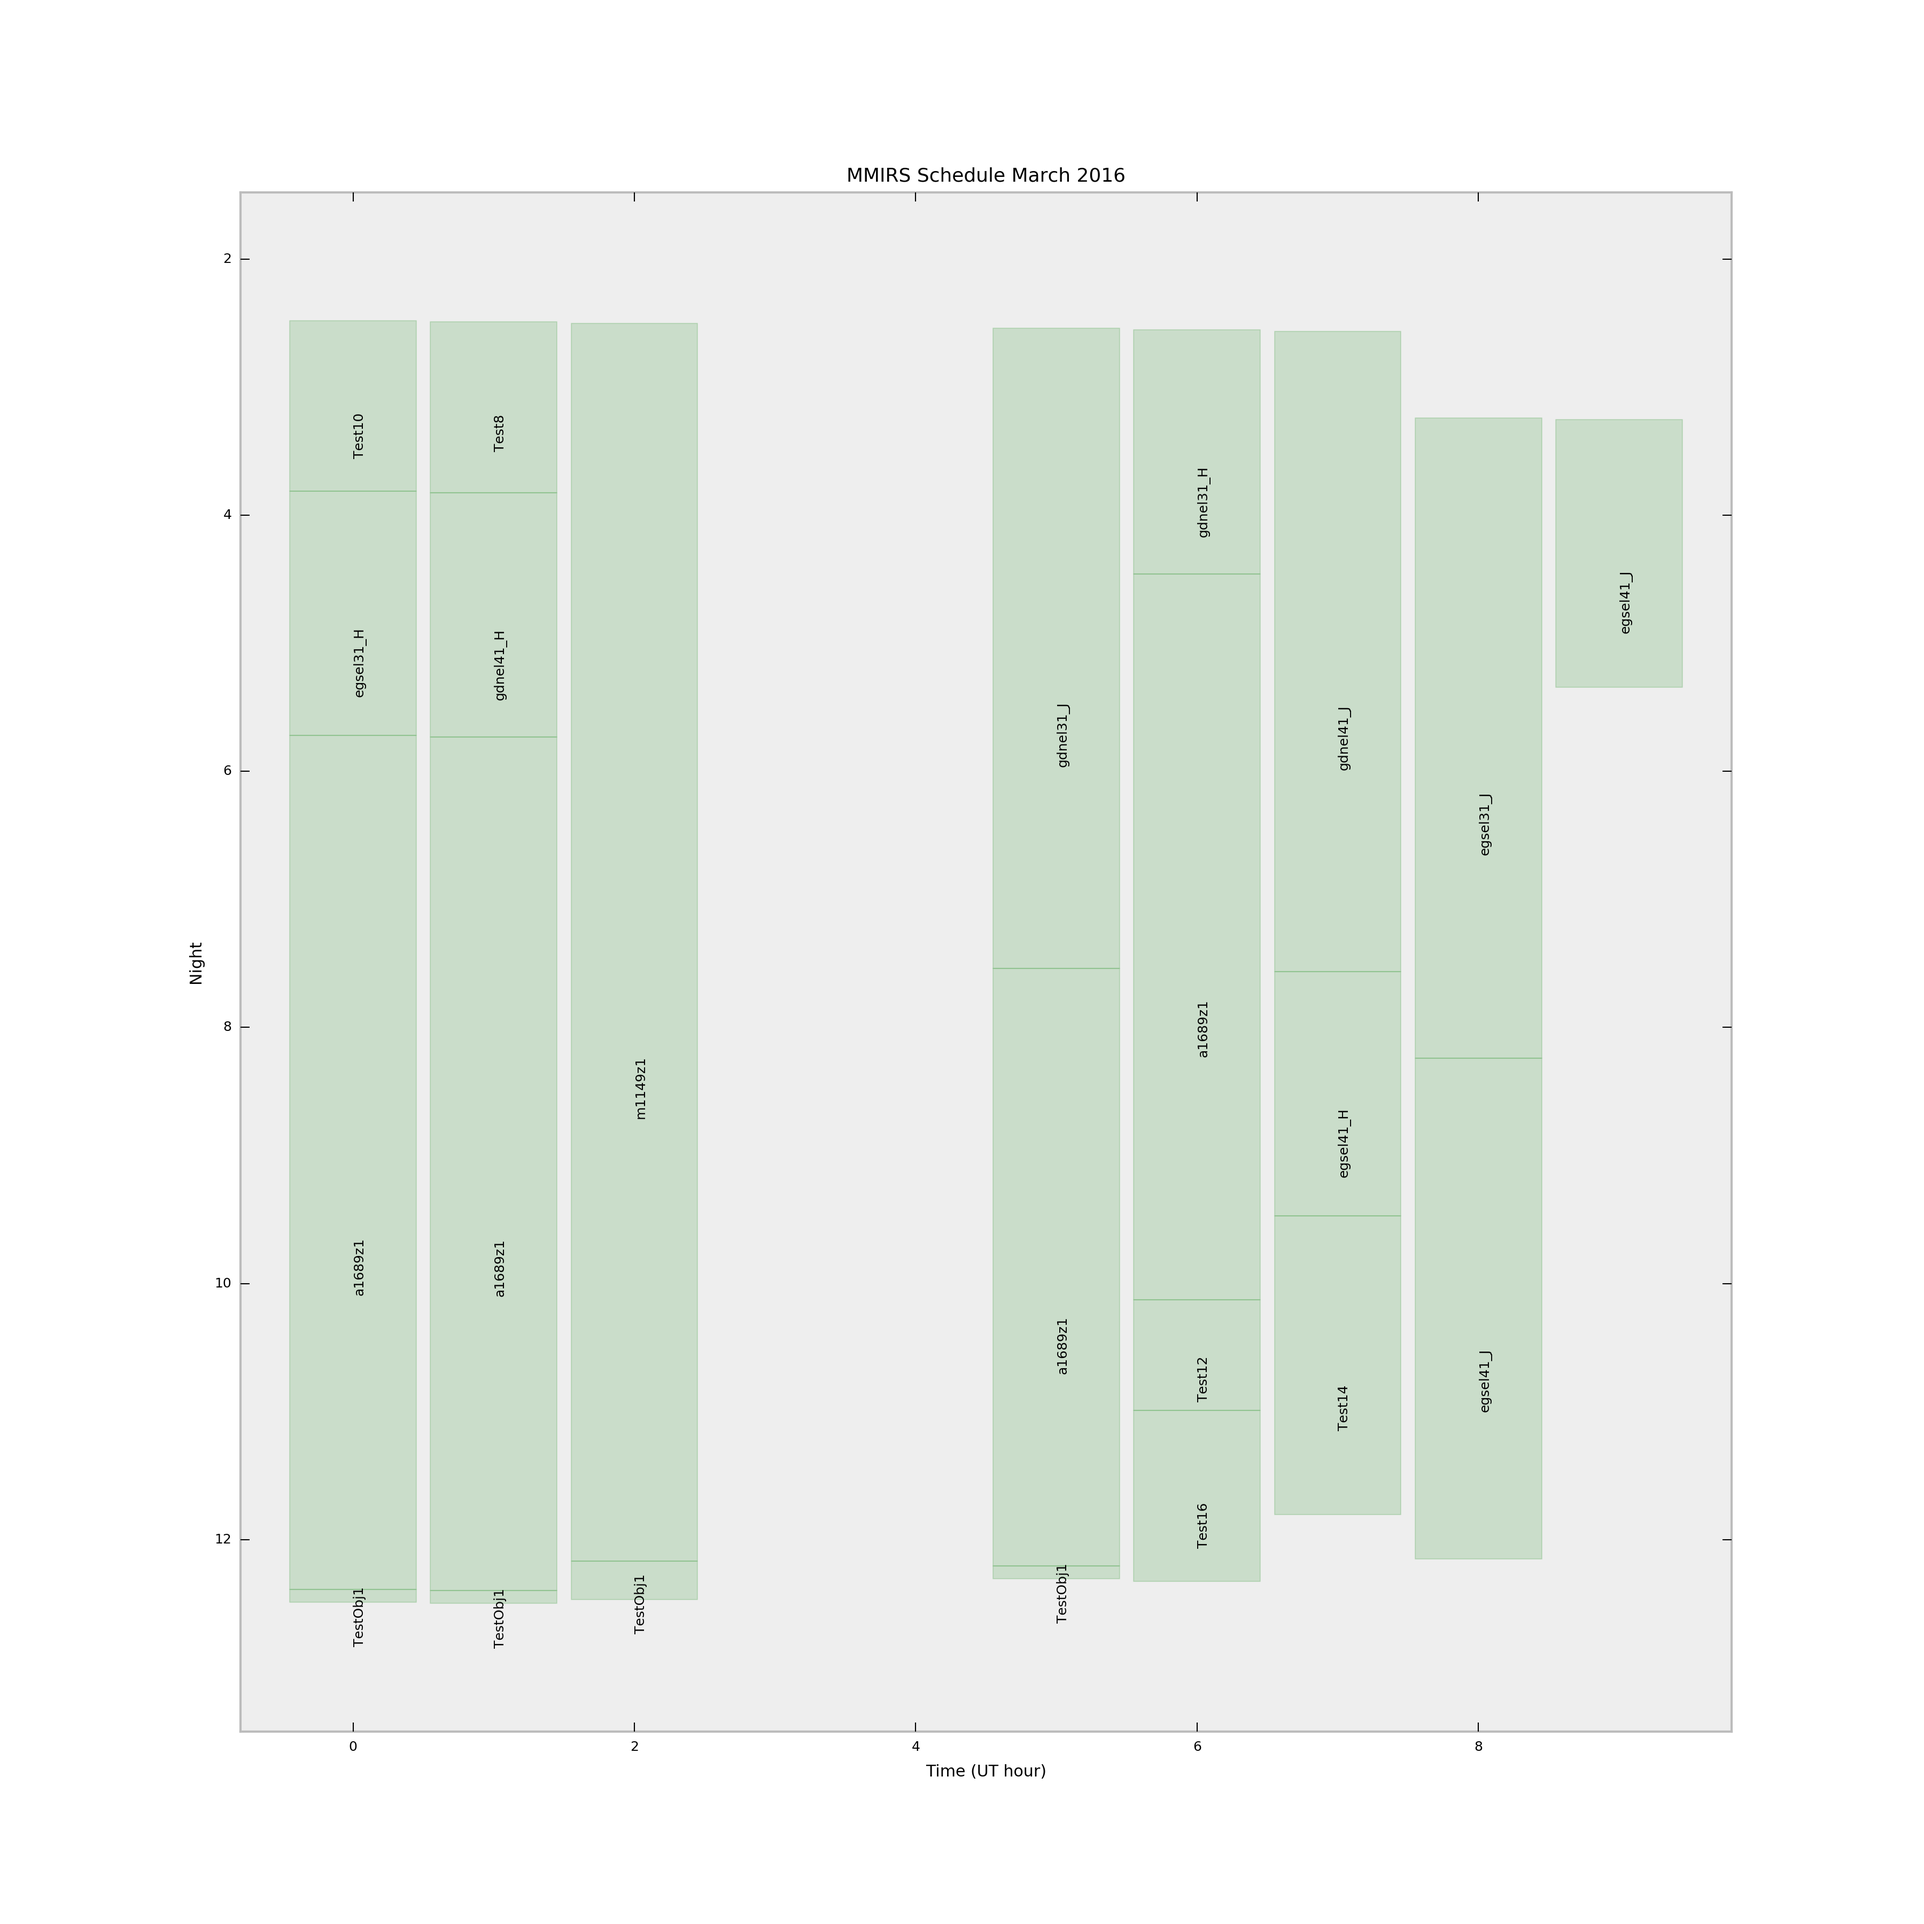
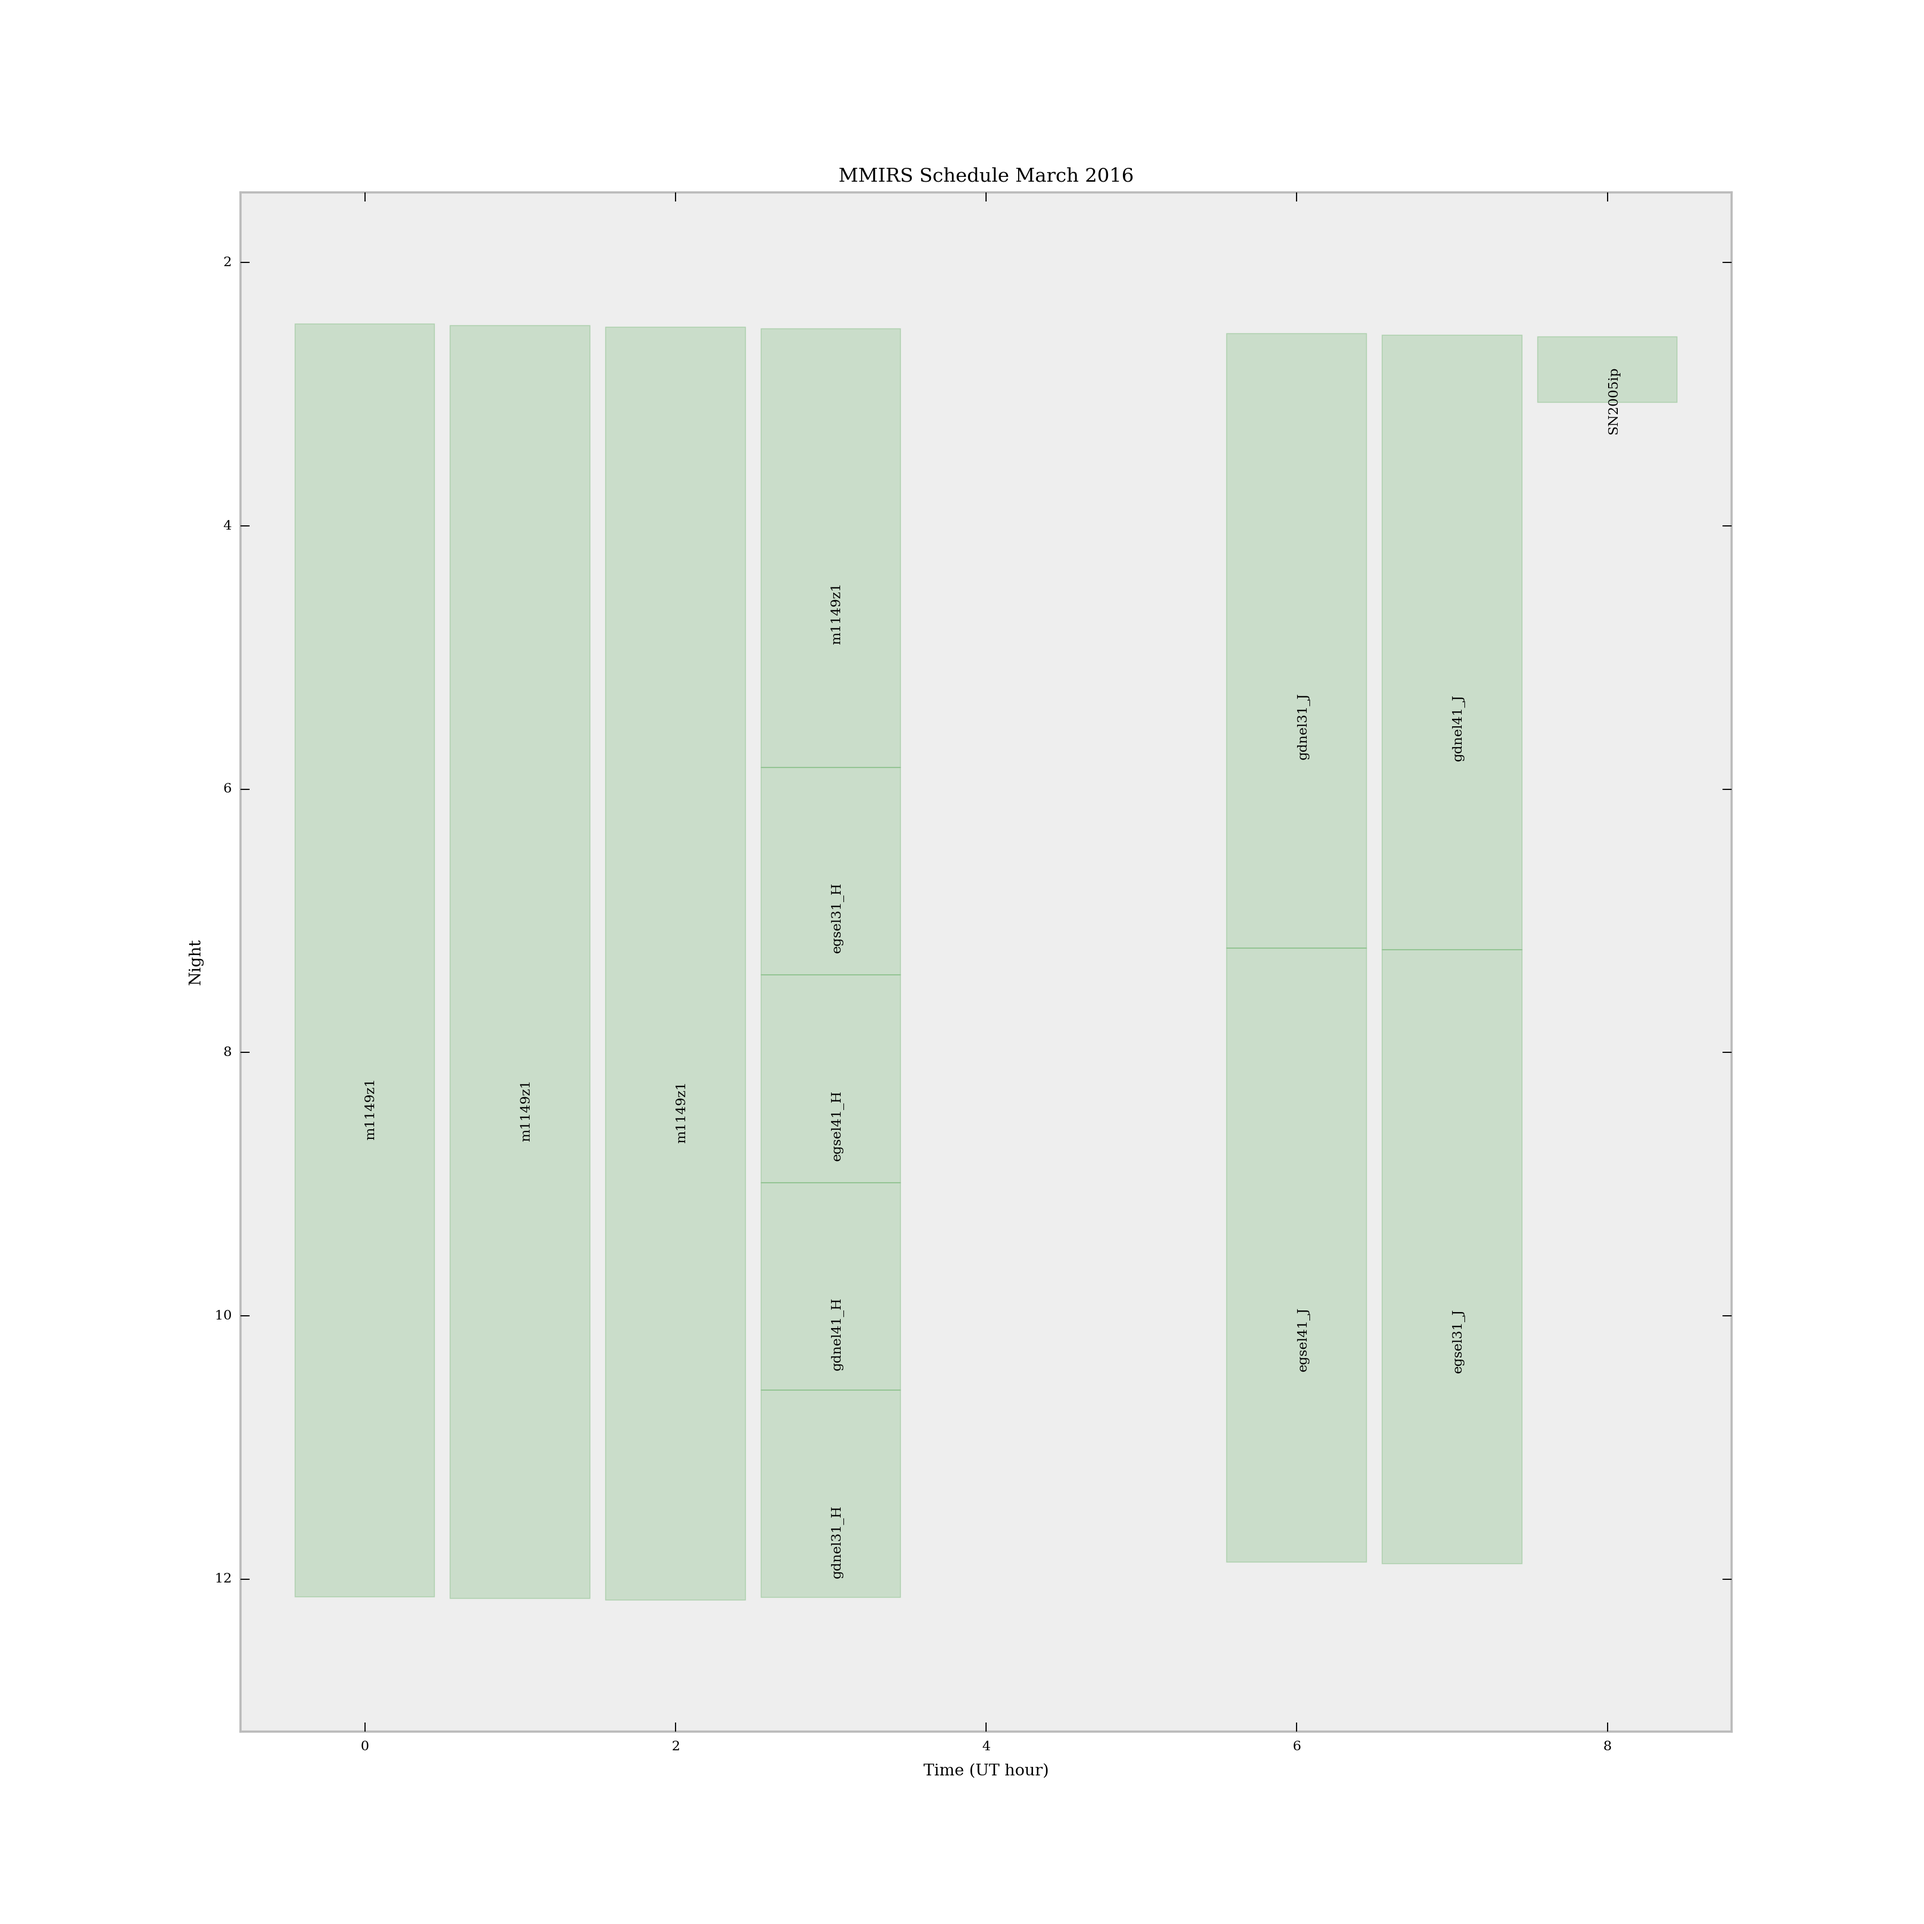
Fixed a bug where observations that didn't fit fully in a night were ignored

diff --git a/MMTQueue.py b/MMTQueue.py
@@ -65,7 +65,7 @@ def mmirsOverhead(fld):
     obstype = fld['obstype'].values[0]
 
     if obstype == 'mask':
-        return 3600.0
+        return 2400.0
     elif obstype == 'longslit':
         return 1800.0
     elif obstype == 'imaging':
@@ -232,7 +232,7 @@ def willItFitWeight(fld, startTime, mmt, objEphem, donePar):
     # how much we can
     nVisitsObservable = possVisits
 
-    while nVisitsObservable > 0:
+    while nVisitsObservable >= 1:
         totalTargetTime = expPerVisit*nVisitsObservable + mmirsOverhead(fld)
         tdelta = datetime.timedelta(seconds=totalTargetTime)
         endTime = startTime + tdelta
@@ -241,7 +241,7 @@ def willItFitWeight(fld, startTime, mmt, objEphem, donePar):
         if isObservable(objEphem, endTime) == 1:
             return 1.0 * nVisitsObservable/repeats, endTime, nVisitsObservable
         else:
-            nVisitsObservable = -1
+            nVisitsObservable -= 1
 
     # If we get here, the object is never observable, return bad weight
     return 0, startTime, 0
@@ -287,13 +287,15 @@ def obsUpdateRow(fldPar, donePar, startTime, mmt):
         obsWeight['moonFlag'] = moonFlag
         obsWeight['nVisits'] = fitVisits
 
+        # Priority Weight
+        priorFlag = np.power(2, float(fld['priority'].values[0]))
+
         # Now combine the weights
         weightTAC = 1.0 - 1.0 * donefld['doneTime'].values[0] \
             / donefld['totalTime'].values[0]
         if weightTAC < 0:
             weightTAC = 0.001
-        totalWeight = fitWeight * moonFlag * (weightTAC)
-
+        totalWeight = fitWeight * moonFlag * (weightTAC)**2*priorFlag
         # We need to account for a few extra things.
         # 1. I want fields that have had previously observed
         #    fields to be the top priority if they are observable.
@@ -305,7 +307,6 @@ def obsUpdateRow(fldPar, donePar, startTime, mmt):
         # Now account for weighting from preivous iteration of the
         # code. This should smooth things out
         totalWeight = totalWeight * donefld['prevWeight'].values[0]
-
         obsWeight['totalWeight'] = totalWeight
         # Append to weight listing
         weightList.append(obsWeight)
@@ -413,7 +414,7 @@ def main(args):
         donePar = queueTools.createBlankDoneMask(obsPars)
 
     # Run one call of obsUpdateRow as a test
-    allDates = [  # "2016/03/18",
+    allDates = ["2016/03/18",
                 "2016/03/19",
                 "2016/03/20",
                 "2016/03/21",
@@ -426,7 +427,7 @@ def main(args):
     finishedFlag = False
     for iter in range(5):
 
-        #Check to see if I reached a success mark
+        # Check to see if I reached a success mark
         if finishedFlag is True:
             continue
 

diff --git a/queueTools.py b/queueTools.py
@@ -130,7 +130,10 @@ def createBlankDoneMask(obsFrame, startDay="1900/1/1", endDay="3000/1/1"):
         PI = obsFrame['PI'].values[ii]
         copyDict['objid'] = obsFrame['objid'].values[ii]
         copyDict['PI'] = obsFrame["PI"].values[ii]
-        copyDict['totalTime'] = allocatedTime[PI]
+        if PI in allocatedTime:
+            copyDict['totalTime'] = allocatedTime[PI]
+        else:
+            copyDict['totalTime'] = 0.01  # To avoid Nan
         dictList.append(copyDict)
 
     outFrame = DataFrame(dictList)

diff --git a/README.md b/README.md
@@ -9,15 +9,21 @@ This code is **not** production level at this point.  Work is ongoing.
 
 ## Todos:
 1. <s> Create functions for sunrise and sunset </s>
-2. <s> Create function to calculate to compute moon position and brightness at given time</s>
-3. <s> Create Data Structure / Model for storing "DONE" observations</s>
-4. <s> Create Data Structure / Model for observing parameters</s>
+2. Create function to calculate to compute moon position and brightness at given time
+3. Create Data Structure / Model for storing "DONE" observations
+4. Create Data Structure / Model for observing parameters
 5. Create function to check for time until transit
-6. <s> Create function that edits TAC weight for each target given observed status</s>
-7. <s> Create visualization tools to see what's been scheduled on a given night</s>
-8. <s> Create schedule output for observer</s>
+6. Create function that edits TAC weight for each target given observed status
+7. Create visualization tools to see what's been scheduled on a given night
+8. Create schedule output for observer
 9. Create "poor weather" override mode
 
+
+####Current progress:
+
+I'll try and keep this updated, but no promises.  
+
+Feb 9 -- Repo created.
 
 
 ## Lunar age notes:
@@ -38,8 +44,22 @@ Bright : 9.0 < abs(age) < 14.0
 
 Note that we consider a night dark even if the night is "grey" but the observation can be fit in before moonrise.
 
+Need to write a routine that checks if the moon is up at start and at end.  It's not really possible that the moon is down for both but was up in the middle.  
 
-# Big things to consider:
-* How do we account for priority within a PI's program?  If I give you field 1 and field 2, and field 2 has lower priority, do I only do that if field 1 is done?
-* What about about parity? Like I only want J band if you already have H
-  
+
+
+***********************
+# Notes for running the 2016a queue software from scratch
+
+* Some of the fld files are duplicate (Stark primarily). I nuked the *31.fld*
+  and *41.fld* files as they were duplicates of the J files.
+* Exposure times were not correct in the stark files. Specifically, they asked
+  for 4x11x240minute exposures instead of 240m/11/4 = 5.45 minutes for J. For
+  H, they asked for 120mx4x5 instead of 6x4x5. I did a search and replace to fix
+  this.
+* Coordiante for a1689 for Chilingarian was not entered.
+
+
+
+  # Run the code
+  python MMTQueue.py 2016a
